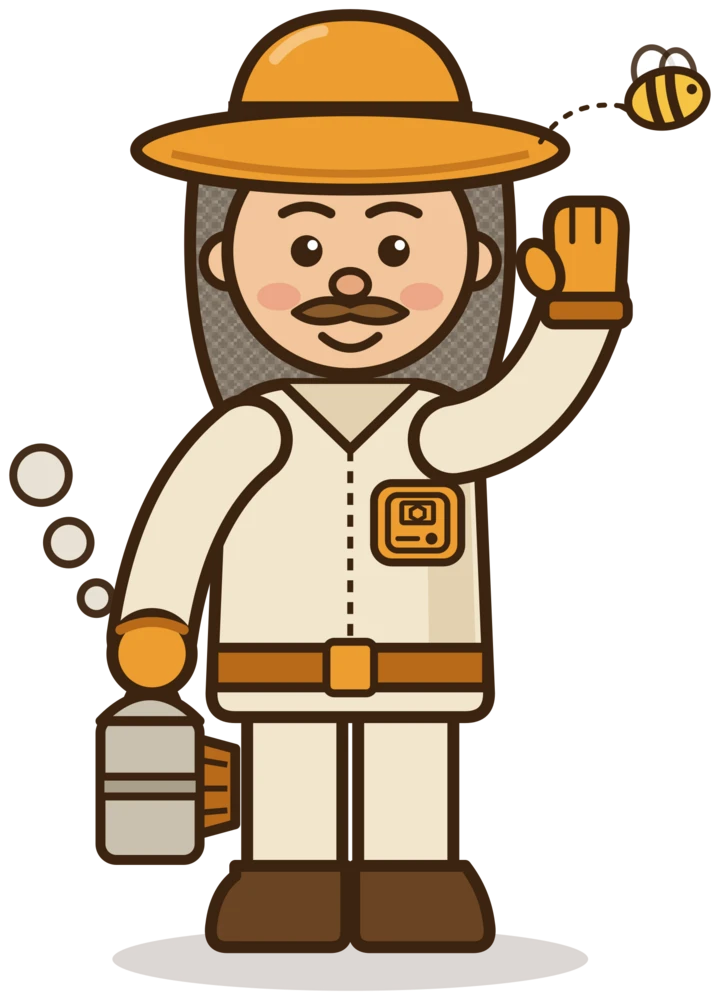
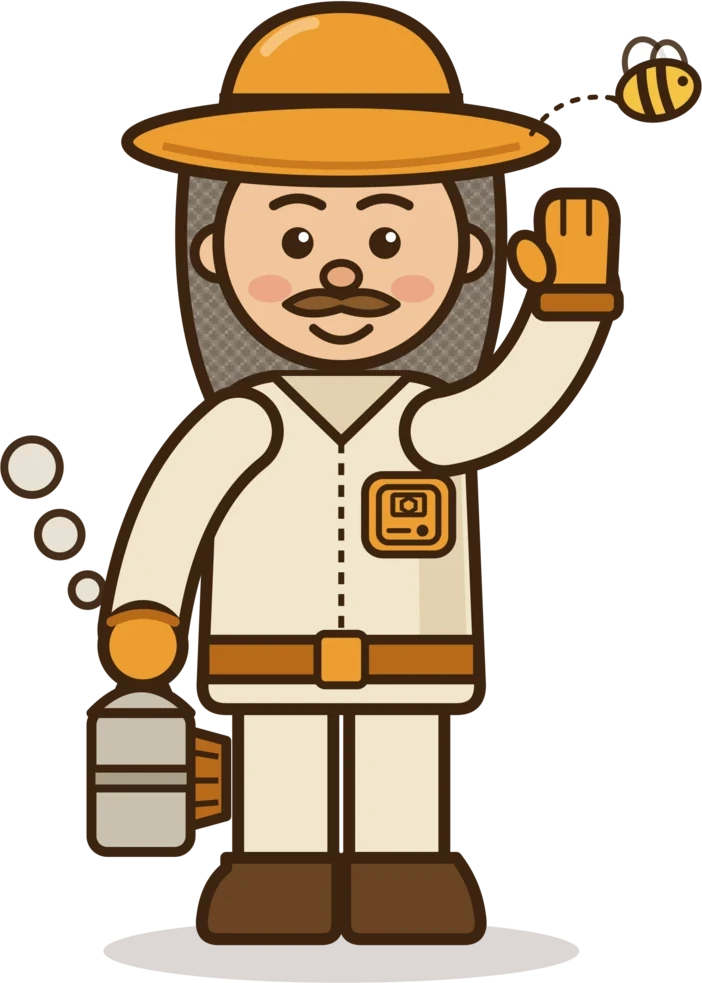
Маскоти: прибрано зайві поля, «нохіве» і «на перемикачі» - одна картинка
Claude-Session: https://claude.ai/code/session_01GiBntRmkaobxaF4kv8iLXL

diff --git a/lib/ui/guide_bubble.dart b/lib/ui/guide_bubble.dart
@@ -14,7 +14,7 @@ import '../l10n/l10n.dart';
 /// посередині кнопки.
 const kLessonOnButtonBottom = 58.0;
 const kLessonOnButtonLeft = 31.0;
-const kLessonBeekeeper = 'assets/guide/beekeeper_nohive.webp';
+const kLessonBeekeeper = 'assets/guide/beekeeper_on_toggle.webp';
 
 /// Коли кнопки «Редагувати» немає (редагування, вибір шаблону, форма огляду)
 /// — пасічник спирається на свою «стійку» (малюнок у тому ж масштабі, вищий).
